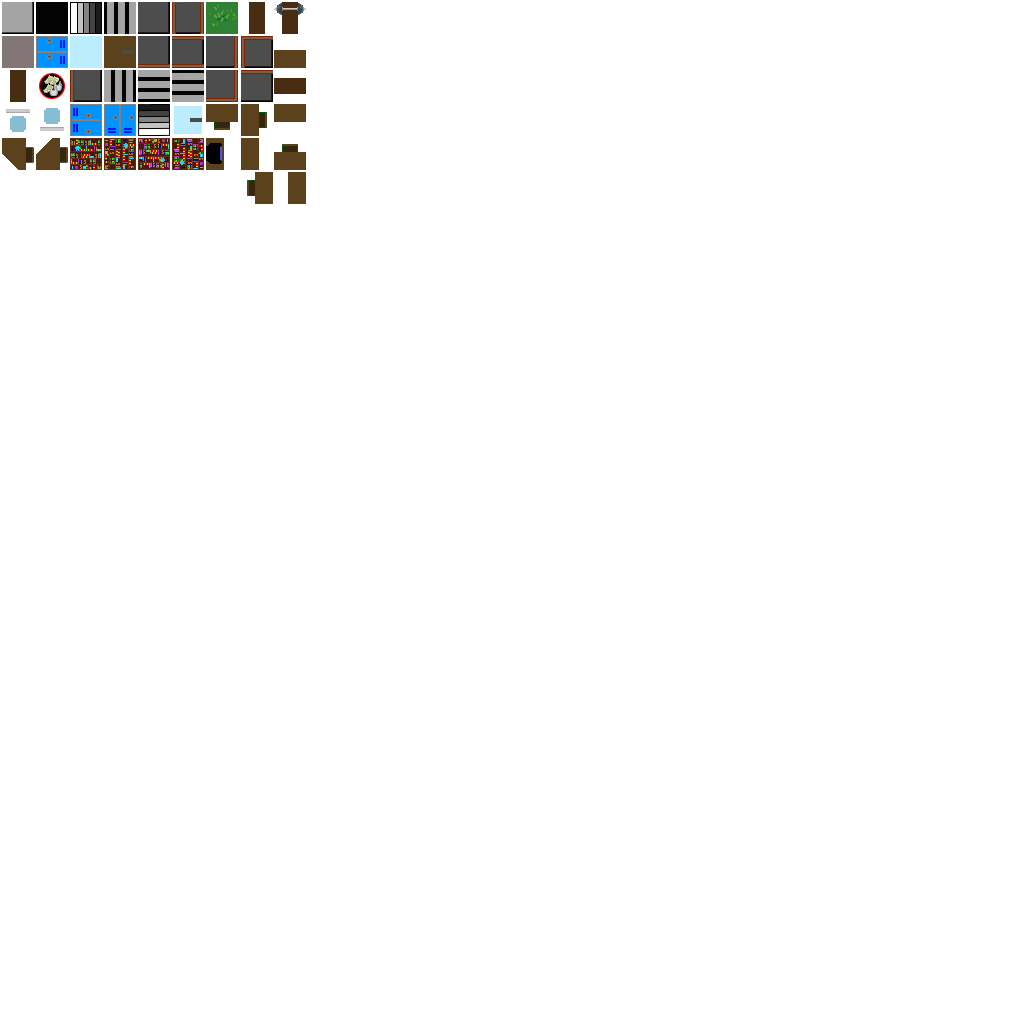
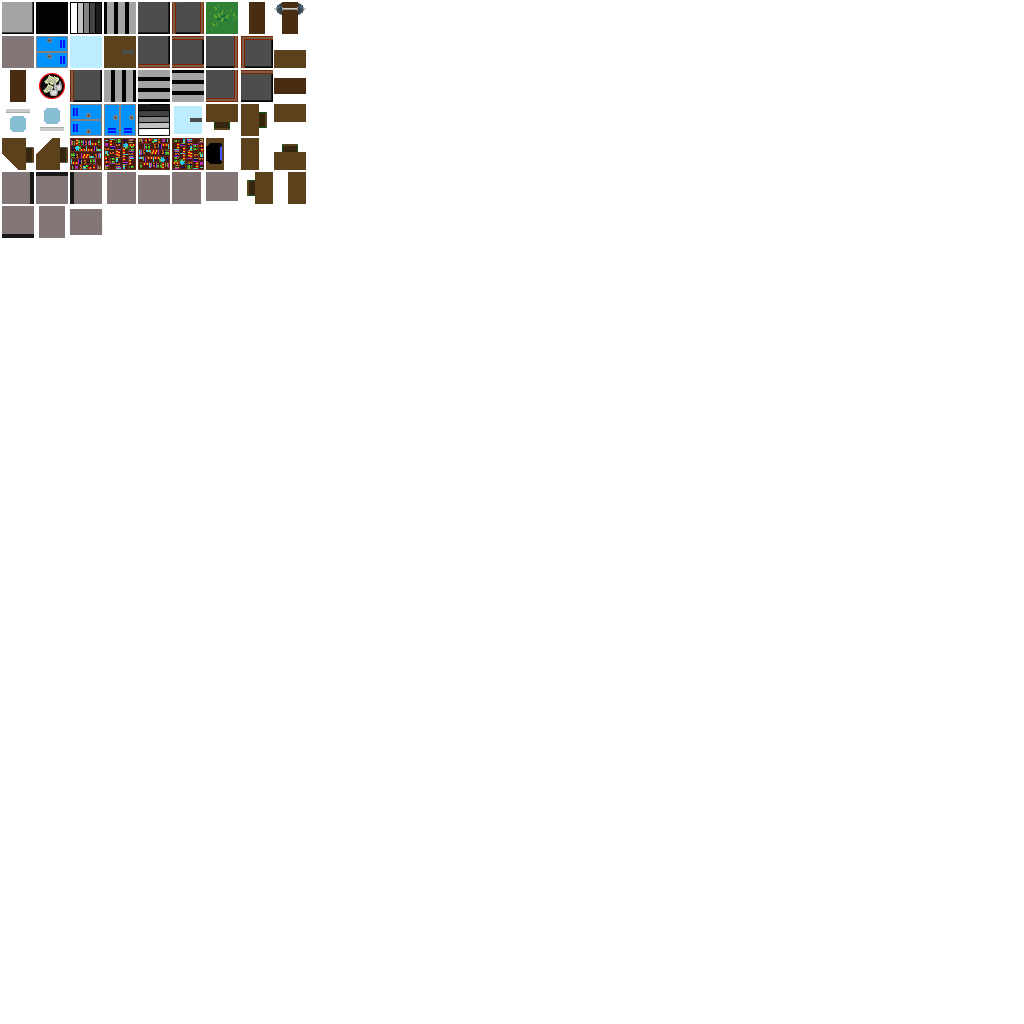
Board in the house, board in the house board
added whiteboards, blackboards and some missing windows

Changed region(s): [[0.0, 0.1562, 0.25, 0.25]]

diff --git a/config.py b/config.py
@@ -7,7 +7,7 @@ WIN_HEIGHT: int = 480
 TILE_SIZE: int = 32
 
 # Fps
-FPS: int = 60
+FPS: int = 50
 
 # Layers
 PLAYER_LAYER: int = 5
@@ -17,7 +17,7 @@ BLOCK_LAYER: int = 2
 GROUND_LAYER: int = 1
 
 # Speeds
-PLAYER_SPEED: int = 5
+PLAYER_SPEED: int = 10
 NPC_SPEED: int = 3
 
 # Colors
@@ -59,35 +59,35 @@ basement: List[str]  = [
 
 # HeHeHeHa
 ground_floor: List[str] = [
-    "WWWWWWWWWWWWWWWWWWWWWWWWWWWWWWWWWWWWWWWWWWWWWWWWWWWWWWWWWWWWWWWWWWWWWWWWWWWWWWWWWWWWWWWWWWWWWWWWWWWWWWWWWWWWWWWWWWWWWWWWWWWWWWWWWWWWWWWWWWWWWWWWWWWWWWWWWWWWWWWWWWWWWWWwwwWWW______________________",
+    "WWwwWWwwWWWWWwwWwwWwwWWWwwWwwWwwWWwwWwwWwwWWWWWWWWWWWWWWWWWWWWWWWwWWwwWWwwWWwwWWwwWWWWWwwWWwwWWwwWWwwWWWWWwwWwwWwwWwwWWWWWWWWWWWWWWWWWWWWWWWWWWWwWWwWWwWWwWWwWWwWWwWWWWwwwWWW______________________",
     "W.u..u..uk.W.él..l..l.Wl..ukel..uWl..ukel..uWZZZZZZZř!!!!!!!!!!W.u..u..u..u..u..u.k.W..u..u..u..u..u..k.Wl....ukel....uW..u..u..u..u..u..u..k.W..u..u..u..u..u..k...WĽ.....LW______________________",
-    "W.e..e..el.W.uk..k..k.Wk..ekek..eWk..ekek..eWZZZZZZZř!!!!!!!!!!W.u..u..u..u..u..u.l.W..u..u..u..u..u..l.Wk....ekek....eW..u..u..u..u..u..u..l.W..u..u..u..u..u..l...WĽ..B..LW______________________",
-    "W.u..u..u..W..l..l..l.Wl..ukel..uWl..ukel..uWZZZZZZZř!!!!!!!!!!W....................W...................Wl....ukel....uW......................W.....................WĽ..B..LW______________________",
-    "W.e..e..e..W..k..k..k.Wk..ekek..eWk..ekek..eWZZZZZZZř!!!!!!!!!!W....................W...................Wk....ekek....eW......................W.....................WĽ..B..LW______________________",
-    "W.u..u..u..W..l..l..l.Wl..ukel..uWl..ukel..uWZZZZZZZř!!!!!!!!!!W.u..u..u..u..u..u...W..u..u..u..u..u....Wl....ukel....uW..u..u..u..u..u..u....W..u..u..u..u..u......WĽ..B..LW______________________",
-    "W.e..e..e..W..k..k..k.Wk..ekek..eWk..ekek..eWZZZZZZZř!!!!!!!!!!W.u..u..u..u..u..u...W..u..u..u..u..u....Wk....ekek....eW..u..u..u..u..u..u....W..u..u..u..u..u......WĽ..P..LW______________________",
-    "W.u..u..u..W..l..l..l.Wl..ukel..uWl..ukel..uWZZZZZZZř!!!!!!!!!!W....................W...................Wl....ukel....uW......................W.....................WĽ.....LW______________________",
-    "W.e..e..e..W..k..k..k.Wk...jm...eWk...jm...eWZZZZZZZř!!!!!!!!!!W....................W...................Wk.....jm.....eW......................W.....................WB..B..LWWWWWWWWWWWWWWWWWWWWWWWW",
-    "W.u..u..u..W..l..l..l.WĽ........LWĽ........LWZZZZZZZř!!!!!!!!!!W.u..u..u..u..u..u...W..u..u..u..u..u....W..............W..u..u..u..u..u..u....W..u..u..u..u..u......WB..B..LW......................W",
-    "W.e..e..e..W..........WĽ........LWĽ........LWZZZZZZZř!!!!!!!!!!W.u..u..u..u..u..u...W..u..u..u..u..u....W..............W..u..u..u..u..u..u....W..u..u..u..u..u......WB..B..LW......................W",
-    "W..........W..........W.........LW.........LWZZZZZZZř!!!!!!!!!!W....................W...................WĽ.............W......................W.....................WB..B..LW......................W",
+    "w.e..e..el.x.uk..k..k.Wk..ekek..eWk..ekek..eWZZZZZZZř!!!!!!!!!!W.u..u..u..u..u..u.l.W..u..u..u..u..u..l.Wk....ekek....eW..u..u..u..u..u..u..l.W..u..u..u..u..u..l...WĽ..B..LW______________________",
+    "w.u..u..u..x..l..l..l.Wl..ukel..uWl..ukel..uWZZZZZZZř!!!!!!!!!!W....................{...................{l....ukel....uW......................{.....................{Ľ..B..LW______________________",
+    "W.e..e..e..x..k..k..k.Wk..ekek..eWk..ekek..eWZZZZZZZř!!!!!!!!!!W....................{...................{k....ekek....eW......................{.....................{Ľ..B..LW______________________",
+    "W.u..u..u..x..l..l..l.Wl..ukel..uWl..ukel..uWZZZZZZZř!!!!!!!!!!W.u..u..u..u..u..u...{..u..u..u..u..u....{l....ukel....uW..u..u..u..u..u..u....{..u..u..u..u..u......{Ľ..B..LW______________________",
+    "w.e..e..e..W..k..k..k.Wk..ekek..eWk..ekek..eWZZZZZZZř!!!!!!!!!!W.u..u..u..u..u..u...{..u..u..u..u..u....{k....ekek....eW..u..u..u..u..u..u....{..u..u..u..u..u......{Ľ..P..LW______________________",
+    "w.u..u..u..W..l..l..l.Wl..ukel..uWl..ukel..uWZZZZZZZř!!!!!!!!!!W....................{...................{l....ukel....uW......................{.....................{Ľ.....LW______________________",
+    "W.e..e..e..W..k..k..k.Wk...jm...eWk...jm...eWZZZZZZZř!!!!!!!!!!W....................{...................{k.....jm.....eW......................{.....................{B..B..LWWWWWWWWWWWWWWWWWWWWWWWW",
+    "W.u..u..u..W..l..l..l.WĽ........LWĽ........LWZZZZZZZř!!!!!!!!!!W.u..u..u..u..u..u...{..u..u..u..u..u....{..............W..u..u..u..u..u..u....{..u..u..u..u..u......{B..B..LW......................W",
+    "w.e..e..e..W..........WĽ........LWĽ........LWZZZZZZZř!!!!!!!!!!W.u..u..u..u..u..u...W..u..u..u..u..u....W..............W..u..u..u..u..u..u....W..u..u..u..u..u......WB..B..LW......................W",
+    "w..........W..........W.........LW.........LWZZZZZZZř!!!!!!!!!!W....................W...................WĽ.............W......................W.....................WB..B..LW......................W",
     "W..........W..........W..........W..........WZZZZZZZř!!!!!!!!!!W....................W...................WĽ............LW......................W.....................W......LW......................W",
     "W..........W.........tWt.........Wt.........WZZZZZZZř!!!!!!!!!!W...................tWt..................Wt............LW.....................tW....................tWt.....LW......................W",
-    "WWWWWWWWWDWWWWWWWWWWDWWWDWWWWWWWWWWDWWWWWWWWW..................WWWWWWWWWWWWWWWWDWWWWWWWWDWWWWWWWWWWWWWWWWWWWWWWWWWDWWWWWWWWWWWWWWWWWWWWDWWWWWWWWWWWWWWWWWWWWWWWDWWWWWWWDWWWWW......................W",
+    "WWW====WWDWWWWWWWWWWDWWWDW----WWWWWDW----WWWW..................WWWWWWWWWWWWWWWWDWWWWWWWWDWWWWWWWWWWWWWWWWWWWWW----DWWWWWWWWWWWWWWWWWWWWDWWWWWWWWWWWWWWWWWWWWWWWDWWWWWWWDWWWWW......................W",
     "W..........W............................................................................................................................................................................ŘŘŘŘŘŘŘŘ!..W",
-    "Wnin.......W............................................................................................................................................................................SSSSSSSS!..W",
-    "W..........D................................................................................................................................C...........................................SSSSSSSS!bbW",
+    "wnin.......W............................................................................................................................................................................SSSSSSSS!..W",
+    "w..........D................................................................................................................................C...........................................SSSSSSSS!bbW",
     "Wjmjmjmj...W............................................................................................................................................................................SSSSSSSS!bbW",
-    "W..........W............................................................................................................................................................................SSSSSSSS!??W",
-    "W..........WWWWWWWWDWWWWWDWWWWWWWDWWWWWWW...................................WWWWWWWWWWWWDWWWWWWWDWWWWWWWWW...............WWDWWWWWWWWWDWWWWWWWWWWWWWWWWWWDWWWWWWDWWWWWWDWWWWWWWWWDWWWWWWWWWWWWWWWWWWW",
+    "w..........W............................................................................................................................................................................SSSSSSSS!??W",
+    "w..........WWWWWWWWDWWWWWDWWWWWWWDWWWWWWW...................................WWWWWWWWWWWWDWWWWWWWDWWWWWWWWW...............WWDWWWWWWWWWDWWWWWWWWWWWWWWWWWWDWWWWWWDWWWWWWDWWWWWWWWWDWWWWWWWWWWWWWWWWWWW",
     "Wjmjmjmj...W!mjmjmj.tW........tW....WTWTW...................................W.......W.......Wt...U.U.U.U.W...............W......Wt....k..k..k..k..k..W......W......W.........W...............Ľ..C..W",
-    "W..........Wl........W.........W....W.W.W...................................W.......W.......W....J.J.J.J.W...............W......W.....l..l..l..l..l..W......W......W.........W...............Ľ.....W",
-    "W..........Wk........W.........W....W.W.W...................................W.......W.......W............W...............W......W....................W......W......W.........W...............!!!!..W",
-    "Wjmjmjmj...Wl.......uW.........W....WDWDW...................................W.......W.......W.N..........W....ľľľľľľľľľľľW......W....................W......W......W.........W..................l..W",
-    "W..........Wk.......eW.........W........W...................................D.......W.......W............W....WWWWWWWWWWWW......W.....l..l..l..l..l..W......W......W.........W..................l..W",
-    "W..........Wl.......uW.........W........W...................................W.......W.......W.u..U.U.U.U.W...........dd??W......W..u..k..k..k..k..k..W......W......W.........W...ll...ll...ll...l..W",
-    "W..........W!nininin!W.........W........W...................................W.......W.......W.e..J.J.J.J.W...........dd??W......W..e..l..l..l..l..l..W......W......W.........W...ll...ll...ll...l..W",
-    "WWWWWWWWWWWWWWWWWWWWWWWWWWWWWWWWWWWWWWWWWWWWWWWWWWWWWWGGWWWWWWWWWWWWWWWWWWWWWWWWWWWWWWWWWWWWWWWWWWWWWWWWWWwWWwWWwWWwWWwWWWWwWWwWWWwWWWwwWWwwWWwwWWwwWWWwwwWWWWwWWwWWWwWwWwWwWWWwwWwwWwwWwwWwwWwwWwWW"
+    "w..........Wl........W.........W....W.W.W...................................W.......W.......]....J.J.J.J.W...............W......].....l..l..l..l..l..W......W......W.........W...............Ľ.....W",
+    "w..........Wk........[.........W....W.W.W...................................W.......W.......]............W...............W......]....................W......W......W.........W...............!!!!..W",
+    "Wjmjmjmj...Wl.......u[.........W....WDWDW...................................W.......W.......].N..........W....ľľľľľľľľľľľW......W....................W......W......W.........W..................l..W",
+    "w..........Wk.......e[.........W........W...................................D.......W.......W............W....WWWWWWWWWWWW......].....l..l..l..l..l..W......W......W.........W..................l..W",
+    "w..........Wl.......uW.........W........W...................................W.......W.......].u..U.U.U.U.W...........dd??W......]..u..k..k..k..k..k..W......W......W.........W...ll...ll...ll...l..W",
+    "W..........W!nininin!W.........W........W...................................W.......W.......].e..J.J.J.J.W...........dd??W......]..e..l..l..l..l..l..W......W......W.........W...ll...ll...ll...l..W",
+    "WwwWwwWWwwWWWWwwWWwwWWWWwWwWwWWWwWwWwWwWWWWWWWWWWWWWWWGGWWWWWWWWWWWWWWWWWWWWWWWWWWWWWWWWWWWWWwwWwwWwwWwwWWwWWwWWwWWwWWwWWWWwWWwWWWwWWWwwWWwwWWwwWWwwWWWwwwWWWWwWWwWWWwWwWwWwWWWwwWwwWwwWwwWwwWwwWwWW"
 ]
 
 # HoHoHo
@@ -100,17 +100,17 @@ first_floor: List[str] = [
     "______________________________________________________________________________________________________________________________________________________________________W......W..................W",
     "______________________________________________________________________________________________________________________________________________________________________W......D......ninininininiW",
     "______________________________________________________________________________________________________________________________________________________________________WWWDWWWWt.................W",
-    "______________________________________________________________________________________________________________________________________________________________________w......WWWWDWWWWWWWWWWWWWWW",
+    "______________________________________________________________________________________________________________________________________________________________________w......WWWWDWWWWXXXXWWXXXXW",
     "______________________________________________________________________________________________________________________________________________________________________w......W..................w",
     "WWWWWwwWWWWWWWWwwWWWWWWwWWWWWwWWWWWwWWWWWwWWWWWwwWWWWWWWwWwWwWWWWWWwwwWWWwwwWWWWWWwWWwWWwWWwWWwWWWWWWWWWWWWWWWWWWWWWWWWWWWWWWWWWWWWWWWWWWWWWWWWWWWWWWWWWWWWWWWWWWWWWWWW......W......mjmjmjmjmjmjW",
     "W..........W........W.....W.....W.....W.....W!!!!!!!!!!!!!!!W..u..u..u..u..u...W...u..u..u..u....W................W...u..u..u..u.....W.........W...u..u..u..u...W.....W......w..................w",
     "W..........W........W.....W.....W.....W.....W!!!!!!!!!!!!!!!W..u..u..u..u..u...W...u..u..u..u....W................W...u..u..u..u.....W.........W...u..u..u..u...W.....D......G......mjmjmjmjmjmjW",
     "W..........W........W.....W.....W.....W.....W!!!!!!!!!!!!!!!W..................W.................W................W..................W.........W................WDW...W......G..................w",
-    "W..........W........W.....W.....W.....W.....W!!!!!!!!!!!!!!!W................k.W...............k.W................W...............k..W.........W..............k.W.W...W......w......mjmjmjmjmjmjW",
-    "w..........W........W.....W.....W.....W.....W!!!!!!!!!!!!!!!W..u..u..u..u..u.k.W...u..u..u..u..k.W................W...u..u..u..u..k..W.........W...u..u..u..u.k.WŤW...W......W..................W",
-    "w..........W........W.....W..l..W..l..W..l..WZZZZZZZrzzzzzzzW..u..u..u..u..u.l.W...u..u..u..u..l.W................W...u..u..u..u..l..W.........W...u..u..u..u.l.WWWWWWW......WWWWWWWWWWWWWWWWWWWW",
-    "W..........W........W.....W.....W.....W.....WZZZZZZZrzzzzzzzW..u..u..u..u..u.k.W...u..u..u..u..k.W................W...u..u..u..u..k..W.........W...u..u..u..u.k.W.....W......W.................Lw",
-    "W..........W........W.....W.....W.....W.....WZZZZZZZrzzzzzzzW................k.W...............k.W................W...............k..W.........W..............k.W.....W......D..................w",
+    "W..........W........W.....W.....W.....W.....W!!!!!!!!!!!!!!!W................k.[...............k.[................W...............k..[.........W..............k.[.W...W......w......mjmjmjmjmjmjW",
+    "w..........W........W.....W.....W.....W.....W!!!!!!!!!!!!!!!W..u..u..u..u..u.k.[...u..u..u..u..k.[................W...u..u..u..u..k..[.........W...u..u..u..u.k.[ŤW...W......W..................W",
+    "w..........W........W.....W..l..W..l..W..l..WZZZZZZZrzzzzzzzW..u..u..u..u..u.l.[...u..u..u..u..l.[................W...u..u..u..u..l..[.........W...u..u..u..u.l.[WWWWWW......WWWWWWWWWWWWWWWWWWWW",
+    "W..........W........W.....W.....W.....W.....WZZZZZZZrzzzzzzzW..u..u..u..u..u.k.[...u..u..u..u..k.[................W...u..u..u..u..k..[.........W...u..u..u..u.k.[.....W......W.................Lw",
+    "W..........W........W.....W.....W.....W.....WZZZZZZZrzzzzzzzW................k.[...............k.[................W...............k..[.........W..............k.[.....W......D..................w",
     "w..........W........W.....W.....W.....W.....WZZZZZZZrzzzzzzzW..................W.................W..N.............W..................W.........W................W.....W......W..................W",
     "w..........W........W.....W.....W.....W.....WZZZZZZZrzzzzzzzW..u..u..u..u..u...W...u..u..u..u....W................W...u..u..u..u.....W.........W...u..u..u..u...W.....W......WWWWWWWWWWWWWWWWWWWW",
     "W..........W........W.....W.....W.....W.....WZZZZZZZrzzzzzzzW..u..u..u..u..u...W...u..u..u..u....D................W...u..u..u..u.....W.........W...u..u..u..u...WWWWWWW..............sssssssssssW",
@@ -126,10 +126,10 @@ first_floor: List[str] = [
     "w..........W..........W.....W...W...W...W...W..........................W......W.....WoóóóóóóóóóóóóóóóW.....W.......W.......W.............W.............W...W.......l..l..l..l..l..l..l.....W....W",
     "W..........W..........W.....W...W...W...W...W..........................W......W.....Wo..............ÓW.....W.......W.......W.............W.............D...D.......l..l..l..l..l..l..l..........W",
     "W..........W..........W.....W...W...W...W...W..........................W......W.....Wo..............ÓW.....W.......W.......W.............W.............WWDWW...............................W....W",
-    "w..........W..........W.....W...W...W...W...W..........................W......W.....Wo..............ÓW.....W.......W.......W.............W.............W...W..........l..l..l..l..l..l..l..WWWWWW",
-    "w..........W..........W.....W...W...W...W...W..........................W......W.....Wo..............ÓW.....W.......W.......W.............W.............W...W..........l..l..l..l..l..l..l..W?????",
-    "W..........W..........W.....W...W...W...W...W..........................W......W.....Wo.....................W.......W.......W.............W.............W...W...............................W?????",
-    "W..........W..........W.....W...W...W...W...W..........................W......W.....Wo.....................W.......W.......W.............W.............W...W...u...l..l..l..l..l..l..l..l..W?????",
+    "w..........W..........W.....W...W...W...W...W..........................W......W.....Wo..............ÓW.....W.......W.......W.............W.............W...]..........l..l..l..l..l..l..l..WWWWWW",
+    "w..........W..........W.....W...W...W...W...W..........................W......W.....Wo..............ÓW.....W.......W.......W.............W.............W...]..........l..l..l..l..l..l..l..W?????",
+    "W..........W..........W.....W...W...W...W...W..........................W......W.....Wo.....................W.......W.......W.............W.............W...]...............................W?????",
+    "W..........W..........W.....W...W...W...W...W..........................W......W.....Wo.....................W.......W.......W.............W.............W...]...u...l..l..l..l..l..l..l..l..W?????",
     "Wt.........W..........W.....W...W...W...W...W.........................tW......W.....WOOOOOOOOOOOOOOOOW.....W.......W.......W.............W.............W...Wt..e...l..l..l..l..l..l..l..l..W?????",
     "WWWWWWWWWWWWWWWWWWWWWWWWWWWWWWwWWWwWWWwWWWwWWWWwwWWWwwWWWwwWWWwwWWWwwWWWWWwwWWWWwwwWWWWWwwwwWWwwwwWWwwwwWWWWWWwwwWWWWWwwwWWWWWWwwWWWwwWWWWWWWwwWWWWwwWWWWwWWWWwwWWWWwwWWWwwWWWWwwWWWWwwWWWWW?????",
 ]
@@ -150,15 +150,15 @@ second_floor: List[str] = [
     "______________________________________________________________________________________________________________________________________________________________________W......Wininini...........W",
     "______________________________________________________________________________________________________________________________________________________________________Wt...................mmjmmW",
     "______________________________________________________________________________________________________________________________________________________________________w.........................w",
-    "WWWWWwwWWWWWWWWwwWWWWWWwWWWWWwWWWWWwWWWWWwWWWWWwwWWWWWWWwWwWwWWWWWWwwwWWWwwwWWWWWWwWWwWWwWWwWWwWWWWWWWWWWWWWWWWWWWWWWWWWWWWWWWWWWWWWWWWWWWWWWWWWWWWWWWWWWWWWWWWWWWWWWWWWWDWWWWWWWWWWWWWWWWWWWWWWW",
-    "W..........W..u..u..u..k.W.u..u..u..u..u..k.W!!!!!!!!!!!!!!!W.u..u..u..u..u.k..W..u..u..u..u..k..W................W..u..u..u..u...k..Wt........W.u..u..u..u..k..W.....W......W..................W",
-    "Wmm........W..u..u..u..l.W.u..u..u..u..u..l.W!!!!!!!!!!!!!!!W.u..u..u..u..u.l..W..u..u..u..u..l..W................W..u..u..u..u...l..W.........W.u..u..u..u..l..WDW...D......W..................w",
-    "W........mmW.............W..................W!!!!!!!!!!!!!!!W..................W.................W................W..................W.........W................W.W...W......W..................w",
-    "wmm........W.............W..................W!!!!!!!!!!!!!!!W..................W.................W................W..................W.........W................WŤW...W......W..................W",
-    "W..........W..u..u..u....W.u..u..u..u..u....WZZZZZZZŔzzzzzzzW.u..u..u..u..u....W..u..u..u..u.....W................W..u..u..u..u......W.........W.u..u..u..u.....WWWWWWW......D..................w",
-    "wmm......mmW..u..u..u....W.u..u..u..u..u....WZZZZZZZŔzzzzzzzW.u..u..u..u..u....W..u..u..u..u.....W................W..u..u..u..u......W.........W.u..u..u..u.....W.....D......W..................W",
-    "w..........W.............W..................WZZZZZZZŔzzzzzzzW..................W.................W................W..................W.........W................W.....W......WWWWWWWWWWWWWWWWWWWW",
-    "WWWWWWWWDWWW.............W..................WZZZZZZZŔzzzzzzzW..................W.................W................W..................W.........W................WWWWWWW..............sssssssssssW",
+    "WWWWWwwWWWWWWWWwwWWWWWWwWWWWWwWWWWWwWWWWWwWWWWWwwWWWWWWWwWwWwWWWWWWwwwWWWwwwWWWWWWwWWwWWwWWwWWwWWWWWWWWWWWWWWWWWWWWWWWWWWWWWWWWWWWWWWWWWWWWWWWWWWWWWWWWWWWWWWWWWWWWWWWWWWDWWWWWWWW-----WW^^^^^^WW",
+    "W..........W..u..u..u..k.W.u..u..u..u..u..k.W!!!!!!!!!!!!!!!W.u..u..u..u..u.k..[..u..u..u..u..k..W................W..u..u..u..u...k..Wt........W.u..u..u..u..k..W.....W......W..................W",
+    "Wmm........W..u..u..u..l.W.u..u..u..u..u..l.W!!!!!!!!!!!!!!!W.u..u..u..u..u.l..[..u..u..u..u..l..W................W..u..u..u..u...l..W.........W.u..u..u..u..l..WDW...D......W..................w",
+    "W........mmW.............{..................{!!!!!!!!!!!!!!!W..................[.................{................W..................{.........W................{.W...W......W..................w",
+    "wmm........W.............{..................{!!!!!!!!!!!!!!!W..................W.................{................W..................{.........W................{ŤW...W......W..................W",
+    "W..........W..u..u..u....{.u..u..u..u..u....{ZZZZZZZŔzzzzzzzW.u..u..u..u..u....{..u..u..u..u.....{................W..u..u..u..u......{.........W.u..u..u..u.....{WWWWWW......D..................w",
+    "wmm......mmW..u..u..u....{.u..u..u..u..u....{ZZZZZZZŔzzzzzzzW.u..u..u..u..u....{..u..u..u..u.....{................W..u..u..u..u......{.........W.u..u..u..u.....{.....D......W..................W",
+    "w..........W.............{..................{ZZZZZZZŔzzzzzzzW..................{.................{................W..................{.........W................{.....W......WWWWWWWWWWWWWWWWWWWW",
+    "WWVVVVVWDWWW.............W..................{ZZZZZZZŔzzzzzzzW..................{.................W................W..................W.........W................WWWWWWW..............sssssssssssW",
     "W..........W..u..u..u....W.u..u..u..u..u....WZZZZZZZŔzzzzzzzW.u..u..u..u..u....W..u..u..u..u.....W................W..u..u..u..u......W.........W.u..u..u..u.....W.....W..............sssssssssssW",
     "Wmmm.......W..u..u..u....W.u..u..u..u..u...tWZZZZZZZŔzzzzzzzW.u..u..u..u..u...tW..u..u..u..u....tW...............tW..u..u..u..u.....tW.........W.u..u..u..u.....W.... W.............PsssssssssssW",
     "W..........WWWWWWWWWWWWDWWWWWWWWWWWWWWWWWDWWWŘŘŘŘŘŘŘŕzzzzzzzWWWWWWWWWWWWWWWWDWWWWWWWWWWWWWWWWDWWWWwwwwwwwwwwGGwwwwWWWWWWWWWWWWWWDWWWWWWWWWDWWWWWWWWWWWWWWWWWWDWWWWWWWWWt.............sssssssssssW",
@@ -169,12 +169,12 @@ second_floor: List[str] = [
     "Wjjj...jjj.W.........................................................................................................................................................................SSSSSSSSSSSW",
     "w..........WWWWWDWWWWWWWWWWWWWWWWWWWDWWWDWWWWW....................WWWDWWWWWWDWWWWWDWWWWWWWWWWDWWWWWDWWWWWWWWWWDWWWWWWDWWWWWWWWWWWWWWWWWWWWWDWWWWWWWWWWWWWWWWWWDWWWWWWWWWWWWWWWWWWWWWWWWWWWWWWWWWW",
     "w..........W......l..l..l..l..l..W....W..WTWTW...................!W......W.....W.........W.......W......W.........W.....l..l..l..l...W......l..l..l..l...W.........l..l..l..l..l..l..l.....W....W",
-    "Wjjj...jjj.W......l..l..l..l..l..W....W..W.W.W....................W......W.....W.........W.......W......W.........W.....l..l..l..l...W......l..l..l..l...W.........l..l..l..l..l..l..l.....D....W",
-    "W..........W.....................W....W..WDWDW....................W......W.....W.........W.......W......W.........W..................W...................W.................................W....W",
-    "w..........W.....................W....W......W.!....!.....!.....!.W......W.....W.........W.......W......W.........W..................W...................W.................................WWWWWW",
-    "wjjj...jjj.W.......l..l..l..l....W....W......W.!....!.....!.....!.W......W.....W.........W.......W......W.........W..................W...................W.................................W?????",
-    "w..........W.......l..l..l..l....W....W......W.!....!.....!.....!.W......W.....W.........W.......W......W.........W..................W...................W.N...............................W?????",
-    "W..........W..k..................W....W......W.!!!!!.......!!!!!..W......W.....W.........W.......W......W.........W.....l..l..l..l...W....l..l..l..l..l..W...u.....l..l..l..l..l..l..l.....W?????",
+    "Wjjj...jjj.]......l..l..l..l..l..W....W..W.W.W....................W......W.....W.........W.......W......W.........W.....l..l..l..l...W......l..l..l..l...W.........l..l..l..l..l..l..l.....D....W",
+    "W..........].....................W....W..WDWDW....................W......W.....W.........W.......W......W.........}..................}...................}.................................W....W",
+    "w..........].....................W....W......W.!....!.....!.....!.W......W.....W.........W.......W......W.........}..................}...................}.................................WWWWWW",
+    "wjjj...jjj.].......l..l..l..l....W....W......W.!....!.....!.....!.W......W.....W.........W.......W......W.........}..................}...................}.................................W?????",
+    "w..........].......l..l..l..l....W....W......W.!....!.....!.....!.W......W.....W.........W.......W......W.........}..................}...................}.N...............................W?????",
+    "W..........W..k..................W....W......W.!!!!!.......!!!!!..W......W.....W.........W.......W......W.........}.....l..l..l..l...}....l..l..l..l..l..}...u.....l..l..l..l..l..l..l.....W?????",
     "Wt.........W..k..................W....W......W...................tW......W.....W.........W.......W......W.........W.....l..l..l..l...W....l..l..l..l..l..W...e.....l..l..l..l..l..l..l..WWWW?????",
     "WWWWwwWWWWWWWWwwWWWWWWWWWWWWWWwWWWWWwWWWWWwWWWWwwWWWwwWWWwwWWWwwWWWwwWWWWWWwWWWWWwwWWWwwwWWWwwWwWWwwwwWWWWWWwwwWWWWWwwwWWWWWWwwWWWwwWWWWWWWwwWWWWwwWWWWwWWWWwwWWWWwwWWWwwWWWWwwWWWwwWWWWWWWW?????",
 ]
@@ -214,12 +214,12 @@ third_floor: List[str] = [
 # Fourth floor
 fourth_floor: List[str] = [
     "?????????WWWWWWWWWWWWWwwWWWWwwwwWWwwwWWwwwWWwwwWWwwwWWWWWWwwwWWWWWWWWWWWWWWWWWWWWWWW",
-    "?????????W..........W.!m!.....jmjmjmjmjmjmjmjmjmj.k...W.........W..................W",
-    "?????????W..........W.k.k.........................g...W.........W..................W",
-    "?????????W..........W.!m!.............................W.........W..................W",
+    "?????????W..........W.!m!.....jmjmjmjmjmjmjmjmjmj.k...[.........W..................W",
+    "?????????W..........W.k.k.........................g...[.........W..................W",
+    "?????????W..........W.!m!.............................[.........W..................W",
     "?????????W..........D.................................W.........W..................W",
     "?????????W..........W.........ininininininininini.....D.........W..................W",
-    "?????????WWWWWWWWWWWWWWWWWWWWWWWWWWWWWWWWWWWWWWWWWWWWWW.........W..................W",
+    "?????????WWWWWWWWWWWWWWWWWWWWWWWWWWWWWWWWWWWWWWWWW--WWW.........W..................W",
     "??????????????????????????????????????????????????????Wt........WWWWDWWWWWWWWWWWWWWW",
     "??????????????????????????????????????????????????????W........D........sssssssssssW",
     "??????????????????????????????????????????????????????WWWWWWWWW.........sssssssssssW",
@@ -232,11 +232,11 @@ fourth_floor: List[str] = [
     "??????????????????????????????????????????????????????Wt................ř!!!!!!!!!!W",
     "??????????????????????????????????????????????????????WWWWWWWWDWWWWWWWWWWWWWWWWWWWWW",
     "??????????????????????????????????????????????????????W........l..l..l..l..l..l...!W",
-    "??????????????????????????????????????????????????????W........k..k..k..k..k..k...!W",
-    "??????????????????????????????????????????????????????W........l..l..l..l..l..l....W",
-    "??????????????????????????????????????????????????????W....k.......................W",
-    "??????????????????????????????????????????????????????W..N.k......................!W",
-    "??????????????????????????????????????????????????????W....k......................!W",
+    "??????????????????????????????????????????????????????]........k..k..k..k..k..k...!W",
+    "??????????????????????????????????????????????????????]........l..l..l..l..l..l....W",
+    "??????????????????????????????????????????????????????]....k.......................W",
+    "??????????????????????????????????????????????????????]..N.k......................!W",
+    "??????????????????????????????????????????????????????]....k......................!W",
     "??????????????????????????????????????????????????????W....k...l..l..l..l..l..l....W",
     "??????????????????????????????????????????????????????W....!...k..k..k..k..k..k....W",
     "??????????????????????????????????????????????????????W....!...l..l..l..l..l..l....W",

diff --git a/main.py b/main.py
@@ -210,6 +210,16 @@ class Game:
                 elif column == "ó": self.interactive[Block(self, j, i, "ó")] = "ó" + str(i) + str(j) # Bookshelf
                 elif column == "Ó": self.interactive[Block(self, j, i, "Ó")] = "Ó" + str(i) + str(j) # Bookshelf
                 elif column == "g": self.interactive[Block(self, j, i, "g")] = "g" + str(i) + str(j) # Computer LROB
+                elif column == "]": self.interactive[Block(self, j, i, "]")] = "]" + str(i) + str(j) # Whiteboard -> (that way)
+                elif column == "[": self.interactive[Block(self, j, i, "[")] = "[" + str(i) + str(j) # Whiteboard <- (that way)
+                elif column == "-": self.interactive[Block(self, j, i, "-")] = "-" + str(i) + str(j) # Whiteboard ^ (that way)
+                elif column == "=": self.interactive[Block(self, j, i, "=")] = "=" + str(i) + str(j) # Whiteboard V (that way)
+                elif column == "}": self.interactive[Block(self, j, i, "}")] = "}" + str(i) + str(j) # Blackboard -> (that way)
+                elif column == "{": self.interactive[Block(self, j, i, "{")] = "{" + str(i) + str(j) # Blackboard <- (that way)
+                elif column == "^": self.interactive[Block(self, j, i, "^")] = "^" + str(i) + str(j) # Blackboard ^ (that way)
+                elif column == "V": self.interactive[Block(self, j, i, "V")] = "V" + str(i) + str(j) # Blackboard V (that way)
+                elif column == "x": self.interactive[Block(self, j, i, "x")] = "x" + str(i) + str(j) # Double Vertical Whiteboard
+                elif column == "X": self.interactive[Block(self, j, i, "X")] = "X" + str(i) + str(j) # Double Horizontal Whiteboard
                 elif column == "N": self.interactive[Npc(self, j, i, "")] = "N" + str(i) + str(j)  # NPC
                 elif column == "C": self.npc.append(Npc(self, j, i, "C")) # Cleaner
 

diff --git a/sprites.py b/sprites.py
@@ -592,6 +592,16 @@ class Block(pygame.sprite.Sprite):
         elif type == "y": self.image = self.game.terrain_spritesheet.get_sprite(241, 2, self.width, self.height)
         elif type == "Y": self.image = self.game.terrain_spritesheet.get_sprite(274, 2, self.width, self.height)
         elif type == "g": self.image = self.game.terrain_spritesheet.get_sprite(206, 138, self.width, self.height)
+        elif type == "]": self.image = self.game.terrain_spritesheet.get_sprite(172, 172, self.width, self.height)
+        elif type == "[": self.image = self.game.terrain_spritesheet.get_sprite(104, 172, self.width, self.height)
+        elif type == "-": self.image = self.game.terrain_spritesheet.get_sprite(138, 172, self.width, self.height)
+        elif type == "=": self.image = self.game.terrain_spritesheet.get_sprite(206, 172, self.width, self.height)
+        elif type == "}": self.image = self.game.terrain_spritesheet.get_sprite(2, 172, self.width, self.height)
+        elif type == "{": self.image = self.game.terrain_spritesheet.get_sprite(70, 172, self.width, self.height)
+        elif type == "^": self.image = self.game.terrain_spritesheet.get_sprite(36, 172, self.width, self.height)
+        elif type == "V": self.image = self.game.terrain_spritesheet.get_sprite(2, 206, self.width, self.height)
+        elif type == "x": self.image = self.game.terrain_spritesheet.get_sprite(36, 206, self.width, self.height)
+        elif type == "X": self.image = self.game.terrain_spritesheet.get_sprite(70, 206, self.width, self.height)
 
         self.rect = self.image.get_rect()
         self.rect.x = self.x
